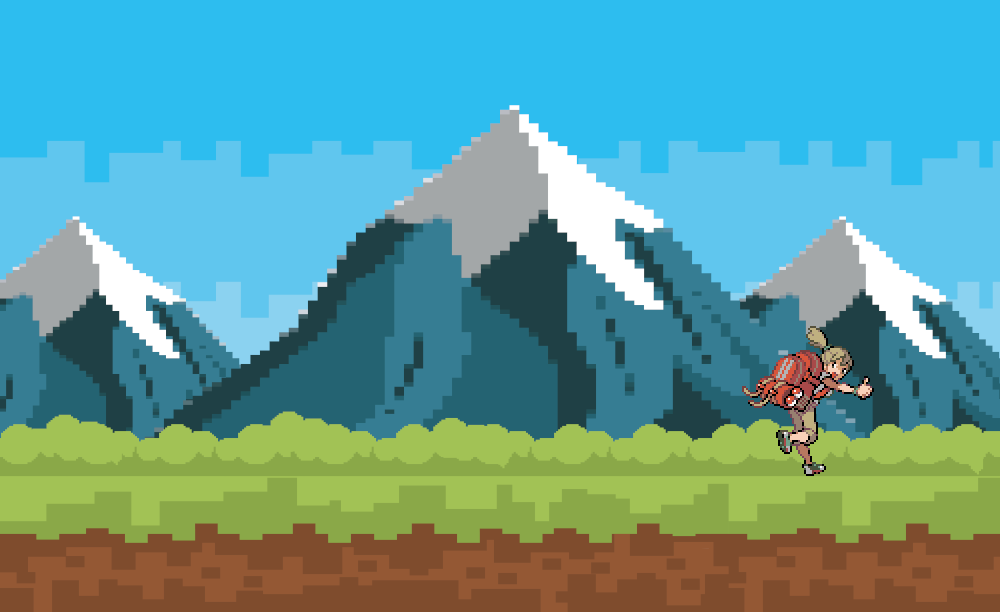
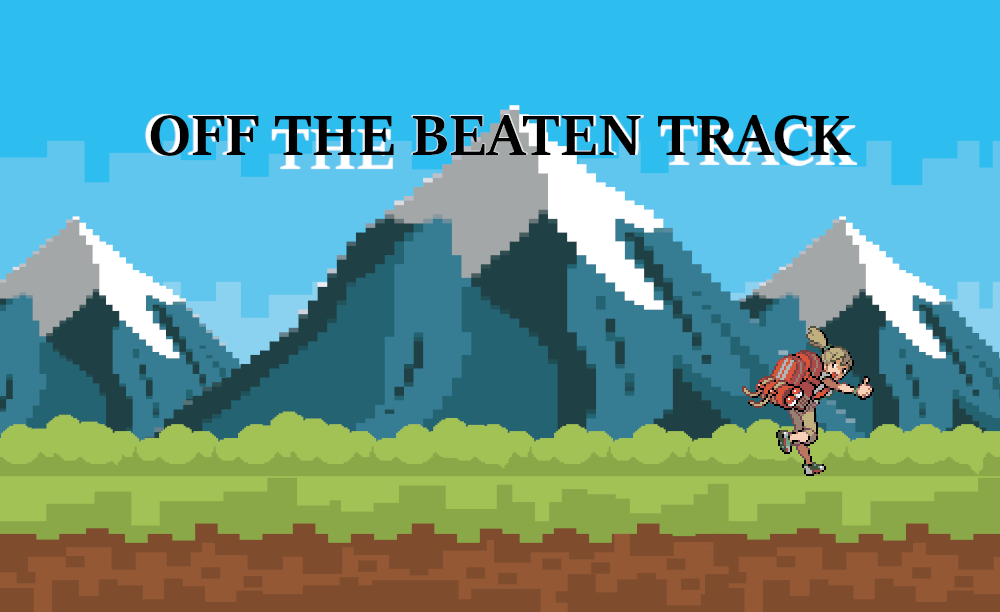
updated cover image

Changed region(s): [[0.124, 0.1863, 0.868, 0.2794]]

diff --git a/styles.css b/styles.css
@@ -25,6 +25,7 @@ h2 {
 body {
   display: flex;
   flex-direction: column;
+  justify-content: space-around;
   align-items: center;
   font-family: 'Courier New', Courier, monospace;
   height: 100vh;
@@ -39,7 +40,6 @@ header {
 }
 
 main {
-  height: 80%;
   display: flex;
   flex-direction: column;
   justify-content: center;

diff --git a/index.html b/index.html
@@ -10,9 +10,9 @@
 </head>
 
 <body>
-    <header>
+    <!-- <header>
         <h1>Off the Beaten Track</h1>
-    </header>
+    </header> -->
     <main>
         <div>
 
